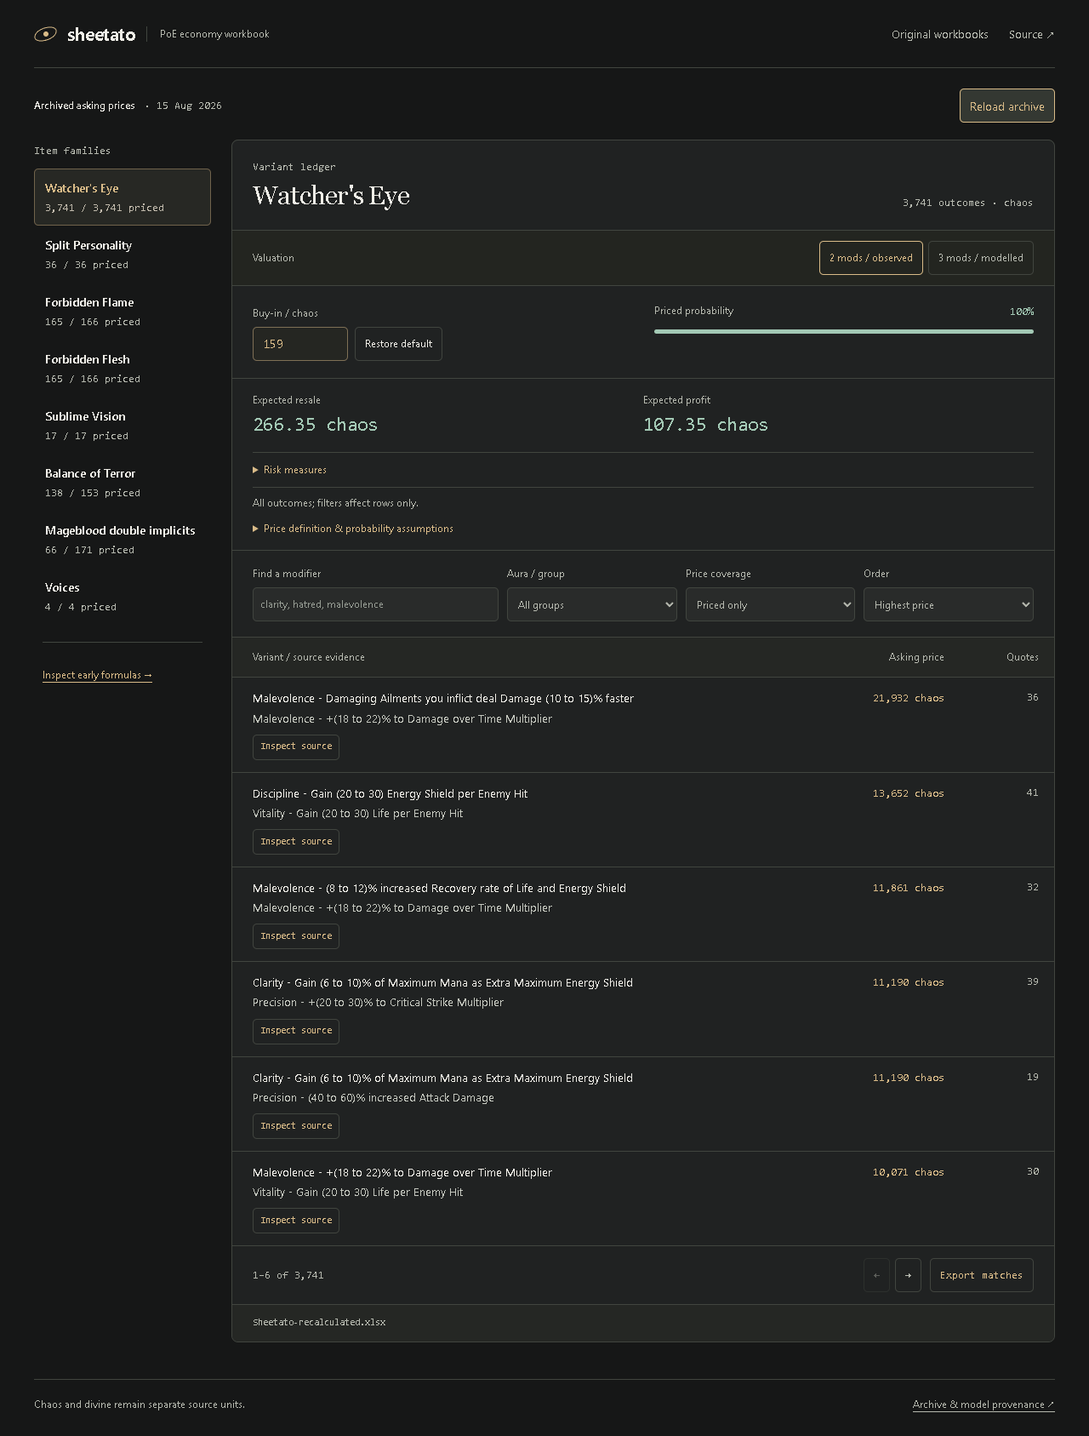
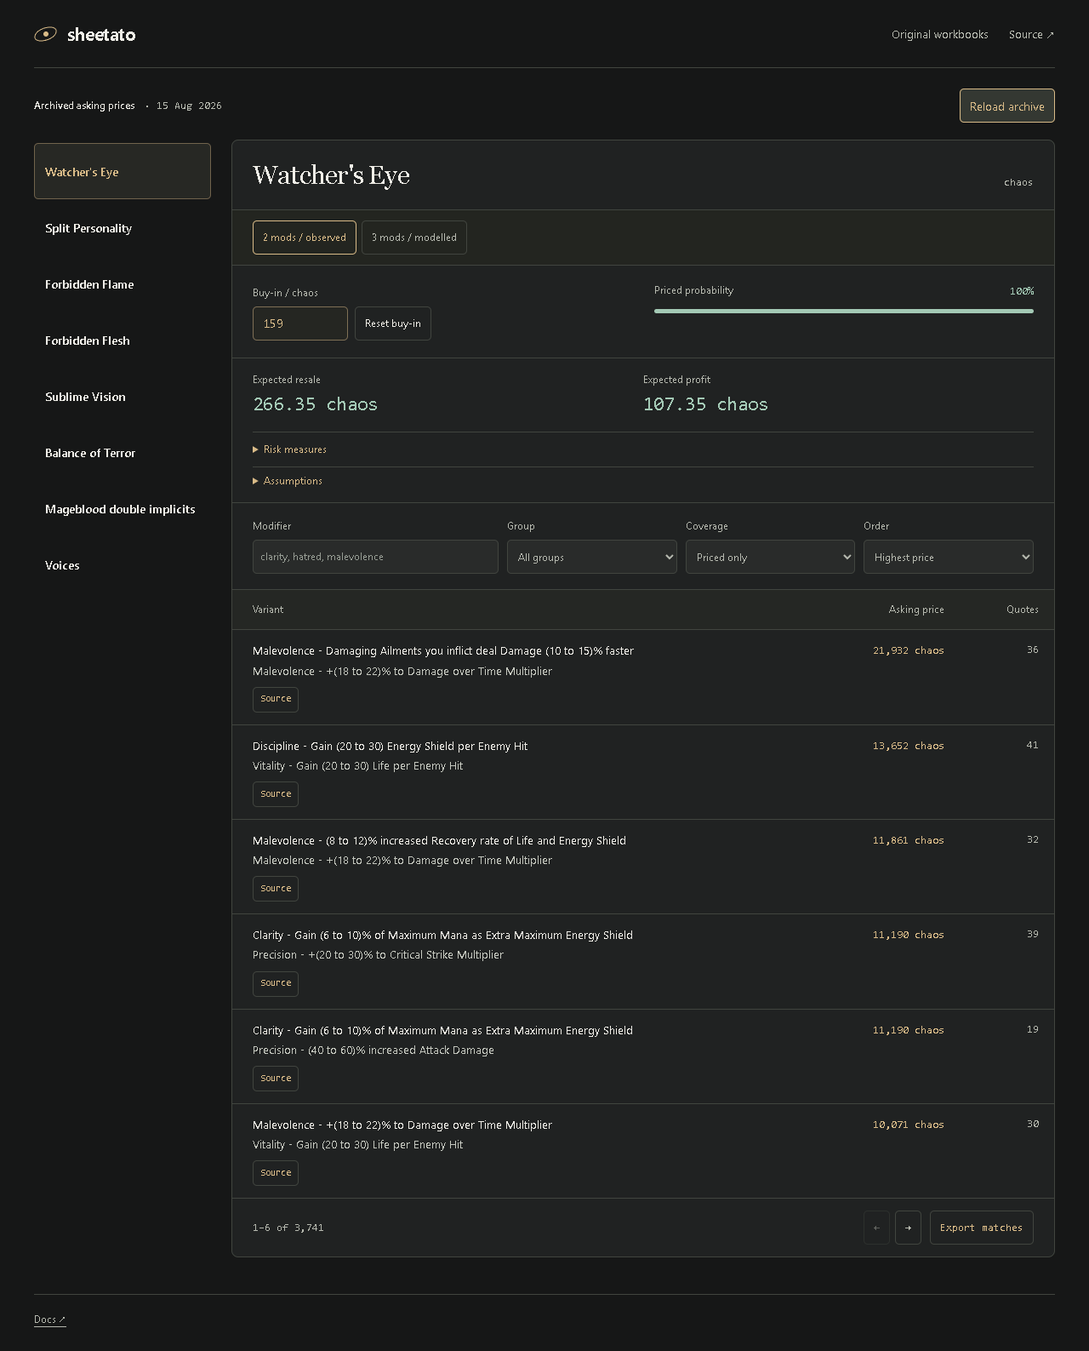
Cut workbook UI narration and link detailed assumptions to docs

diff --git a/examples/portfolio/archive.html b/examples/portfolio/archive.html
@@ -11,44 +11,33 @@
                 href="./"
                 >&#8592; sheetato / price ledger</a
             ><a href="https://github.com/LolStar123/poe-item-pricer"
-                >source & pipeline</a
+                >Source</a
             >
         </header>
         <main>
-            <div class="intro">
-                <div>
-                    <p class="eyebrow">
-                        path of exile / prices, probabilities, spreadsheets
-                    </p>
-                    <h1>Original formulas. Editable assumptions.</h1>
-                </div>
-                <p>
-                    Inspect three archived workbooks, edit a valuation scenario or trace the collection workflow. Original downloads retain their saved values and formulas.
-                </p>
-            </div>
             <nav class="tabs" aria-label="Research views">
                 <button data-tab="calculator" aria-pressed="true">
-                    work the numbers</button
+                    Calculator</button
                 ><button data-tab="archive" aria-pressed="false">
-                    original spreadsheets</button
+                    Workbooks</button
                 ><button data-tab="variants" aria-pressed="false">
-                    variant catalogue</button
+                    Variants</button
                 ><button data-tab="pipeline" aria-pressed="false">
-                    collection workflow
+                    Collection
                 </button>
             </nav>
             <section id="calculator">
                 <div class="controls">
                     <label
-                        >historical worksheet<select id="case"></select></label
+                        >Worksheet<select id="case"></select></label
                     ><label
                         >buy-in / source units<input
                             id="cost"
                             type="number"
                             min="0"
                             step=".1" /></label
-                    ><button id="restore">restore archive values</button
-                    ><button id="export">export edited outcomes</button>
+                    ><button id="restore">Reset</button
+                    ><button id="export">Export CSV</button>
                 </div>
                 <p id="case-note" class="note"></p>
                 <p id="error" role="alert"></p>
@@ -62,27 +51,18 @@
                             role="img"
                             aria-label="Discrete probability histogram of profit per outcome"
                         ></svg>
-                        <p class="note">
-                            Bars add the original outcome probabilities. This is
-                            a discrete distribution, not a fitted normal curve.
-                            Unknown prices keep their probability unallocated.
-                        </p>
+
                     </div>
                     <div class="risk-note">
-                        <h2>the tail matters.</h2>
+
                         <p id="risk-summary"></p>
-                        <p class="note">
-                            Profit factor is expected gains divided by expected
-                            losses. Return/risk is expected profit divided by
-                            one-roll standard deviation; it is not annualised
-                            Sharpe.
-                        </p>
+                        <a href="https://github.com/LolStar123/poe-item-pricer/blob/main/README.md#archive-contents">Risk definitions &#8599;</a>
                     </div>
                 </div>
                 <div class="table-heading">
-                    <h2>edit an outcome price</h2>
+                    <h2>Outcome prices</h2>
                     <label
-                        >find a roll<input
+                        >Find an outcome<input
                             id="outcome-search"
                             type="search"
                             placeholder="150, energy shield..."
@@ -102,22 +82,14 @@
                         <tbody id="outcomes"></tbody>
                     </table>
                 </div>
-                <p class="note">
-                    Blank means unknown. Zero remains a deliberate zero
-                    valuation. Editing changes this browser calculation;
-                    original workbook downloads remain untouched.
-                </p>
+                <p class="note">Blank = unknown; zero = zero.</p>
             </section>
             <section id="archive" hidden>
                 <div class="controls">
-                    <label>original workbook<select id="book"></select></label
-                    ><a id="download" download>download the original .xlsx</a>
+                    <label>Workbook<select id="book"></select></label
+                    ><a id="download" download>Download XLSX</a>
                 </div>
-                <p class="note">
-                    Actual archived worksheets. Select a cell to see its
-                    original formula and saved value. These are historical
-                    working files, not a current price feed.
-                </p>
+                <p class="note">Historical · source units</p>
                 <div class="formula-bar">
                     <b id="cell-name">select a cell</b
                     ><code id="formula"></code>
@@ -129,17 +101,12 @@
                 <h2>Watcher's Eye combinations</h2>
                 <p id="variant-summary"></p>
                 <label
-                    >find a modifier or aura<input
+                    >Modifier or aura<input
                         id="mod-search"
                         type="search"
                         placeholder="Anger, critical strike, energy shield..."
                 /></label>
-                <p class="note">
-                    The real modifier catalogue, combined into all two-mod
-                    pairs. This view does not invent prices or claim independent
-                    equal drop probabilities. No live trade or proxy requests
-                    run here.
-                </p>
+
                 <p id="variant-count"></p>
                 <div id="pairs"></div>
                 <div class="pagination">
@@ -148,60 +115,8 @@
                     ><button id="pair-next">next</button>
                 </div>
             </section>
-            <section id="pipeline" hidden>
-                <h2>from listings to a decision sheet</h2>
-                <ol class="workflow">
-                    <li>
-                        <h3>describe the item precisely</h3>
-                        <p>
-                            Enumerate modifiers, variant pairs and roll ranges
-                            so each observation refers to a defined outcome.
-                        </p>
-                    </li>
-                    <li>
-                        <h3>collect and record price evidence</h3>
-                        <p>
-                            The local residential-proxy collector logs available
-                            trade listings under rate controls. Credentials
-                            remain local. Price observations retain their
-                            collection time and league.
-                        </p>
-                    </li>
-                    <li>
-                        <h3>separate a cheap listing from a sensible buy-in</h3>
-                        <p>
-                            The buy-in rule uses the median of the ten cheapest
-                            listings and reports the floor separately. Missing
-                            or suspicious prices remain visible.
-                        </p>
-                    </li>
-                    <li>
-                        <h3>keep the workbook linked</h3>
-                        <p>
-                            Outcome weights and prices feed expected value,
-                            profit, dispersion and downside. Editing an input
-                            propagates through the formulas. Coverage gaps stop
-                            an incomplete price set being presented as a
-                            complete estimate.
-                        </p>
-                    </li>
-                </ol>
-                <p>
-                    The public archive shows the earlier spreadsheet research
-                    and an inspectable variant catalogue. It does not expose
-                    proxy infrastructure or your account session.
-                </p>
-                <a
-                    href="https://github.com/LolStar123/poe-item-pricer/blob/main/original/buyin.py"
-                    >inspect the original buy-in logic</a
-                >
-            </section>
-            <footer>
-                Historical assumptions are labelled beside each worksheet.
-                Currency units are not specified in the two original valuation
-                files, so their values remain in source units. No current
-                profitability claim is made.
-            </footer>
+            <section id="pipeline" hidden><a href="https://github.com/LolStar123/poe-item-pricer/blob/main/README.md">Collection docs &#8599;</a><p><a href="https://github.com/LolStar123/poe-item-pricer/blob/main/original/buyin.py">Buy-in code &#8599;</a></p></section>
+            <footer><a href="https://github.com/LolStar123/poe-item-pricer/blob/main/PROVENANCE.md">Docs &#8599;</a></footer>
         </main>
         <script type="module" src="app.mjs"></script>
     </body>

diff --git a/examples/portfolio/index.html b/examples/portfolio/index.html
@@ -1,11 +1,11 @@
 <!doctype html><html lang="en"><head><meta charset="utf-8"><meta name="viewport" content="width=device-width,initial-scale=1"><meta name="theme-color" content="#161717"><title>Sheetato | PoE economy workbook</title><link rel="icon" href="assets/favicon.svg" type="image/svg+xml"><link rel="stylesheet" href="browser.css"></head><body>
-<a class="skip" href="#buy-in">Skip to buy-in</a><header><a class="brand" href="./"><span class="eye" aria-hidden="true"><i></i></span>sheetato<span class="brand-note">PoE economy workbook</span></a><nav aria-label="Workbook navigation"><a href="archive.html">Original workbooks</a><a href="https://github.com/LolStar123/poe-item-pricer">Source &#8599;</a></nav></header>
+<a class="skip" href="#buy-in">Skip to buy-in</a><header><a class="brand" href="./"><span class="eye" aria-hidden="true"><i></i></span>sheetato</a><nav aria-label="Workbook navigation"><a href="archive.html">Original workbooks</a><a href="https://github.com/LolStar123/poe-item-pricer">Source &#8599;</a></nav></header>
 <main><div class="archive-banner"><div><strong>Archived asking prices</strong><span id="archive-date">&#183; 15 Aug 2026</span></div><button id="refresh">Reload archive</button></div><p id="status" role="status">Loading archived observations...</p>
-<div class="workbench"><aside class="family-rail"><p class="rail-label">Item families</p><div id="families" aria-label="Select an item family"></div><div class="rail-foot"><a href="archive.html">Inspect early formulas &#8594;</a></div></aside>
-<div class="ledger"><label class="mobile-family" for="dataset-select">Item family<select id="dataset-select" disabled></select></label><section class="sheet" aria-labelledby="sheet-title"><div class="sheet-heading"><div><p class="eyebrow">Variant ledger</p><h1 id="sheet-title">Loading workbook</h1></div><span id="row-count" class="row-count"></span></div>
-<div id="watcher-controls" class="mode-band" hidden><span>Valuation</span><div role="group" aria-label="Watcher's Eye valuation mode"><button data-mode="pairs" aria-pressed="true">2 mods / observed</button><button data-mode="triples" aria-pressed="false">3 mods / modelled</button></div></div>
-<div class="assumptions"><div><label for="buy-in">Buy-in / <span id="cost-unit">currency</span></label><div class="cost-controls"><input id="buy-in" type="number" min="0" step="any" disabled><button id="restore" disabled>Restore default</button></div></div><div class="coverage"><div><span>Priced probability</span><strong id="coverage-value">Unknown</strong></div><div class="coverage-track"><i id="coverage-fill"></i></div><p id="coverage-note"></p></div></div><p id="cost-error" role="alert" hidden></p><div class="sheet-kpis" id="sheet-kpis" aria-label="Full-distribution risk statistics"></div><p class="calculation-note">All outcomes; filters affect rows only.</p>
-<details class="model-note"><summary>Price definition &amp; probability assumptions</summary><p id="assumption"></p><p id="model-detail"></p></details>
-<div class="sheet-tools"><label class="sheet-search" for="search">Find a modifier<input id="search" type="search" placeholder="clarity, hatred, malevolence" autocomplete="off" disabled></label><label for="group">Aura / group<select id="group" disabled><option value="">All groups</option></select></label><label for="coverage">Price coverage<select id="coverage" disabled><option value="priced">Priced only</option><option value="all">All outcomes</option><option value="missing">Missing only</option></select></label><label for="sort">Order<select id="sort" disabled><option value="high">Highest price</option><option value="low">Lowest price</option><option value="listings">Most quotes</option><option value="name">Name A-Z</option></select></label></div>
-<div class="table-wrap"><table><thead><tr><th>Variant / source evidence</th><th>Asking price</th><th>Quotes</th></tr></thead><tbody id="rows"></tbody></table></div><p id="empty" hidden>No matching outcomes. Clear the search or change the coverage filter.</p><div class="table-pager" aria-label="Ledger pages"><span id="page-info">0 rows</span><div><button id="previous" disabled aria-label="Previous page">&#8592;</button><button id="next" disabled aria-label="Next page">&#8594;</button><button id="export" disabled>Export matches</button></div></div><div class="sheet-foot"><span id="source-book"></span></div></section><p id="error" role="alert"></p></div></div></main>
-<footer><span>Chaos and divine remain separate source units.</span><a href="https://github.com/LolStar123/poe-item-pricer/blob/main/PROVENANCE.md">Archive &amp; model provenance &#8599;</a></footer><script type="module" src="browser.mjs"></script></body></html>
+<div class="workbench"><aside class="family-rail"><div id="families" aria-label="Select an item family"></div></aside>
+<div class="ledger"><label class="mobile-family" for="dataset-select">Item family<select id="dataset-select" disabled></select></label><section class="sheet" aria-labelledby="sheet-title"><div class="sheet-heading"><div><h1 id="sheet-title">Loading workbook</h1></div><span id="row-count" class="row-count"></span></div>
+<div id="watcher-controls" class="mode-band" hidden><div role="group" aria-label="Watcher's Eye valuation mode"><button data-mode="pairs" aria-pressed="true">2 mods / observed</button><button data-mode="triples" aria-pressed="false">3 mods / modelled</button></div></div>
+<div class="assumptions"><div><label for="buy-in">Buy-in / <span id="cost-unit">currency</span></label><div class="cost-controls"><input id="buy-in" type="number" min="0" step="any" disabled><button id="restore" disabled>Reset buy-in</button></div></div><div class="coverage"><div><span>Priced probability</span><strong id="coverage-value">Unknown</strong></div><div class="coverage-track"><i id="coverage-fill"></i></div><p id="coverage-note"></p></div></div><p id="cost-error" role="alert" hidden></p><div class="sheet-kpis" id="sheet-kpis" aria-label="Full-distribution risk statistics"></div>
+<details class="model-note"><summary>Assumptions</summary><p id="assumption"></p><a href="https://github.com/LolStar123/poe-item-pricer/blob/main/PROVENANCE.md">Model details &#8599;</a></details>
+<div class="sheet-tools"><label class="sheet-search" for="search">Modifier<input id="search" type="search" placeholder="clarity, hatred, malevolence" autocomplete="off" disabled></label><label for="group">Group<select id="group" disabled><option value="">All groups</option></select></label><label for="coverage">Coverage<select id="coverage" disabled><option value="priced">Priced only</option><option value="all">All outcomes</option><option value="missing">Missing only</option></select></label><label for="sort">Order<select id="sort" disabled><option value="high">Highest price</option><option value="low">Lowest price</option><option value="listings">Most quotes</option><option value="name">Name A-Z</option></select></label></div>
+<div class="table-wrap"><table><thead><tr><th>Variant</th><th>Asking price</th><th>Quotes</th></tr></thead><tbody id="rows"></tbody></table></div><p id="empty" hidden>No matching outcomes. Clear the search or change the coverage filter.</p><div class="table-pager" aria-label="Ledger pages"><span id="page-info">0 rows</span><div><button id="previous" disabled aria-label="Previous page">&#8592;</button><button id="next" disabled aria-label="Next page">&#8594;</button><button id="export" disabled>Export matches</button></div></div></section><p id="error" role="alert"></p></div></div></main>
+<footer><a href="https://github.com/LolStar123/poe-item-pricer/blob/main/PROVENANCE.md">Docs &#8599;</a></footer><script type="module" src="browser.mjs"></script></body></html>

diff --git a/tools/copy_audit.py b/tools/copy_audit.py
@@ -1,0 +1,72 @@
+"""Record rendered UI copy, excluding paper/row/chart data and numeric outputs."""
+import argparse
+import functools
+import http.server
+import json
+import os
+import re
+import threading
+from pathlib import Path
+from playwright.sync_api import sync_playwright
+
+ROOT = Path(__file__).resolve().parents[1]
+parser = argparse.ArgumentParser()
+parser.add_argument("phase", choices=["before", "after"])
+args = parser.parse_args()
+out = ROOT / "output/copy-cull" / args.phase
+out.mkdir(parents=True, exist_ok=True)
+quant = (ROOT / "examples/portfolio/backtesting").is_dir()
+cases = [
+    ("library", "", "__research?.ready && __research?.forwardReady", None),
+    ("backtesting", "backtesting/", "__backtest?.ready", None),
+    ("strategy-archive", "backtesting/#archive", "__backtest?.ready", None),
+] if quant else [
+    ("ledger", "", "__datasets?.ready && !__datasets.refreshing", None),
+    ("original-calculator", "archive.html", "__poe?.ready", None),
+    ("original-workbook", "archive.html", "__poe?.ready", "archive"),
+    ("variants", "archive.html", "__poe?.ready", "variants"),
+    ("workflow", "archive.html", "__poe?.ready", "pipeline"),
+]
+excluded = ".paper>div, tbody, #pairs, svg, #forward-chart, #chart, #forward-cursor, #cursor, #forward-stats strong, #stats strong, #metrics strong, #sheet-kpis strong, #coverage-value, #risk-summary, #formula"
+class Quiet(http.server.SimpleHTTPRequestHandler):
+    def log_message(self, *args):
+        pass
+server = http.server.ThreadingHTTPServer(("127.0.0.1", 0), functools.partial(Quiet, directory=str(ROOT / "examples/portfolio")))
+threading.Thread(target=server.serve_forever, daemon=True).start()
+records = []
+try:
+    with sync_playwright() as p:
+        browser = p.chromium.launch(**({"channel": "chrome"} if os.name == "nt" else {}))
+        for width, height in [(1280, 940), (390, 844)]:
+            for name, path, ready, tab in cases:
+                page = browser.new_page(viewport={"width": width, "height": height}, reduced_motion="reduce")
+                page.goto(f"http://127.0.0.1:{server.server_port}/{path}", wait_until="networkidle")
+                page.wait_for_function("window." + ready)
+                if tab:
+                    page.locator('[data-tab="'+tab+'"]').click()
+                page.evaluate("scrollTo(0,0)")
+                text = page.evaluate("""excluded => {
+                    const walker = document.createTreeWalker(document.body, NodeFilter.SHOW_TEXT);
+                    const parts = [];
+                    while (walker.nextNode()) {
+                        const node = walker.currentNode, el = node.parentElement;
+                        if (!el || el.closest(excluded) || el.closest('script,style,option') || !el.getClientRects().length) continue;
+                        const style = getComputedStyle(el);
+                        if (style.visibility === 'hidden' || style.display === 'none') continue;
+                        parts.push(node.textContent.trim());
+                    }
+                    return parts.filter(Boolean).join(' ');
+                }""", excluded)
+                words = re.findall(r"\b[\w]+(?:[-'/][\w]+)*\b", text)
+                record = {"view": name, "viewport": width, "chrome_words": len(words), "chrome_text": text,
+                          "overflow": page.evaluate("document.documentElement.scrollWidth > innerWidth + 1")}
+                assert not record["overflow"], record
+                records.append(record)
+                page.screenshot(path=str(out / f"{name}-{width}.png"), full_page=True)
+                page.close()
+        browser.close()
+    (out / "wordcounts.json").write_text(json.dumps({"phase": args.phase, "excluded": excluded, "records": records}, indent=2), encoding="utf-8")
+    print(json.dumps([{"view": r["view"], "viewport": r["viewport"], "chrome_words": r["chrome_words"]} for r in records]))
+finally:
+    server.shutdown()
+

diff --git a/tools/browser_audit.py b/tools/browser_audit.py
@@ -83,7 +83,8 @@ try:
         page.locator('[data-mode="triples"]').click()
         assert page.evaluate("__datasets.count")==105995
         assert page.locator("#buy-in").input_value()=="426.5"
-        assert "Modelled triple" in page.locator("#rows").inner_text()
+        assert page.locator('[data-mode="triples"]').get_attribute("aria-pressed")=="true"
+        assert "Not observed" in page.locator("#rows").inner_text()
         page.locator("#buy-in").fill("500")
         page.locator("#search").fill("clarity precision hatred")
         with page.expect_download() as dl:
@@ -204,7 +205,8 @@ try:
         page.locator("#mod-search").fill("Anger")
         assert page.locator(".pair").count()>0
         page.locator('[data-tab="pipeline"]').click()
-        assert page.locator(".workflow li").count()==4
+        assert page.locator('#pipeline a[href$="/README.md"]').is_visible()
+        assert page.locator('#pipeline a[href$="/original/buyin.py"]').is_visible()
         failed=browser.new_page()
         failed.on("pageerror",lambda e:errors.append(str(e)))
         failed.route("**/data/datasets.json",lambda route:route.fulfill(status=500,body="unavailable"))

diff --git a/README.md b/README.md
@@ -8,7 +8,7 @@ Inspect archived Path of Exile asking prices, edit a buy-in and trace expected r
 
 ## Try it
 
-Choose an item family in the left rail, or the selector on a phone. Change **Buy-in** to recalculate the full outcome distribution. Search modifiers, filter aura/group or price coverage, change the order and export the matching rows. **Inspect source** shows the worksheet cell, measurement time, outcome weight and separately supplied floor.
+Choose an item family in the left rail, or the selector on a phone. Change **Buy-in** to recalculate the full outcome distribution. Search modifiers, filter aura/group or price coverage, change the order and export the matching rows. **Source** shows the worksheet cell, measurement time, outcome weight and separately supplied floor.
 
 **Reload archive** fetches and validates the bundled JSON again. It retains the selected family, filters, page and edited buy-in; failure keeps the loaded observations and enables retry. Reloading does not collect current trade listings or change historical measurement dates.
 
@@ -32,6 +32,8 @@ Watcher's Eye has explicit **2 mods / observed** and **3 mods / modelled** contr
 The archive is dated **15 August 2026**; row measurement timestamps are retained. These are asking prices, not completed sales. Chaos and divine remain separate units. Missing prices block full EV and risk rather than becoming zero or disappearing from the probability distribution. Filters only change the ledger, never the EV population.
 
 Expected resale and expected profit stay visible. Open **Risk measures** for profitable-outcome probability, one-roll standard deviation, profit divided by volatility and profit factor. The profit/volatility ratio is not annualised Sharpe. Blank or invalid buy-in clears cost-dependent measures; known resale EV remains visible.
+
+The interface keeps one archive state and short controls. **Assumptions**, **Definitions** and **Collection docs** link to the explanations here and in [Provenance](PROVENANCE.md); the source data and calculations are unchanged.
 
 ## Run locally
 
